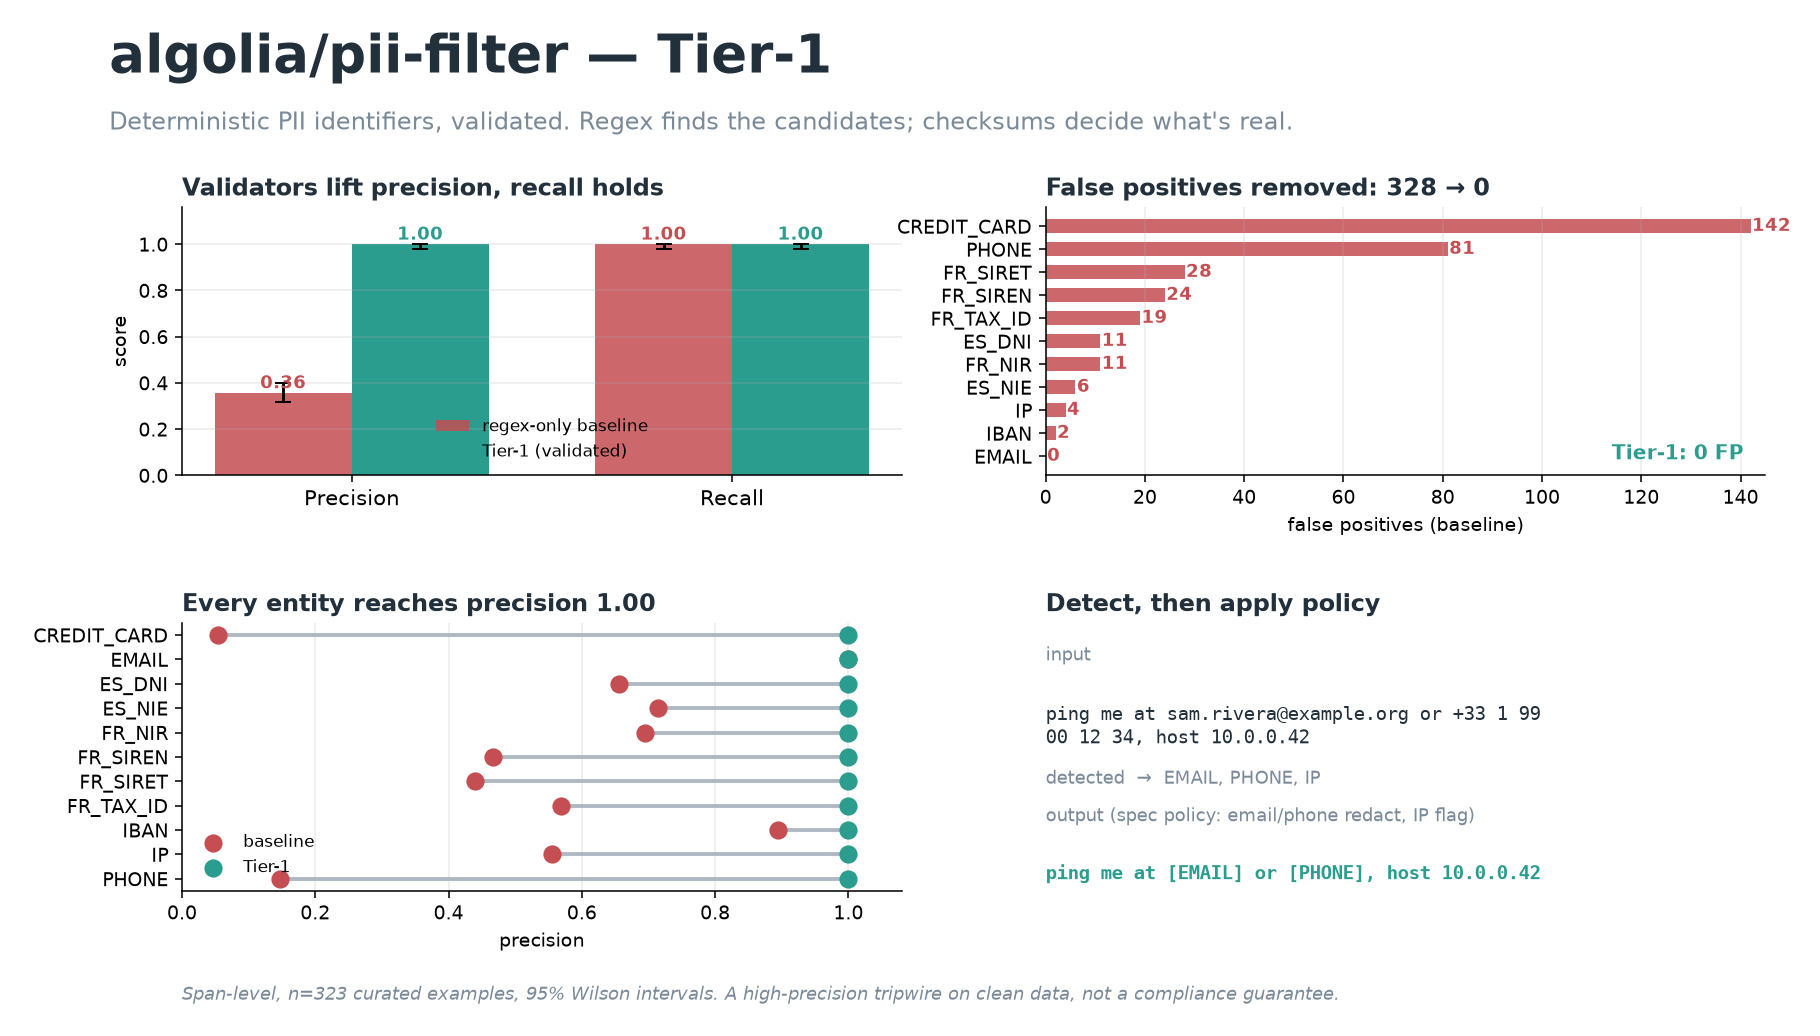
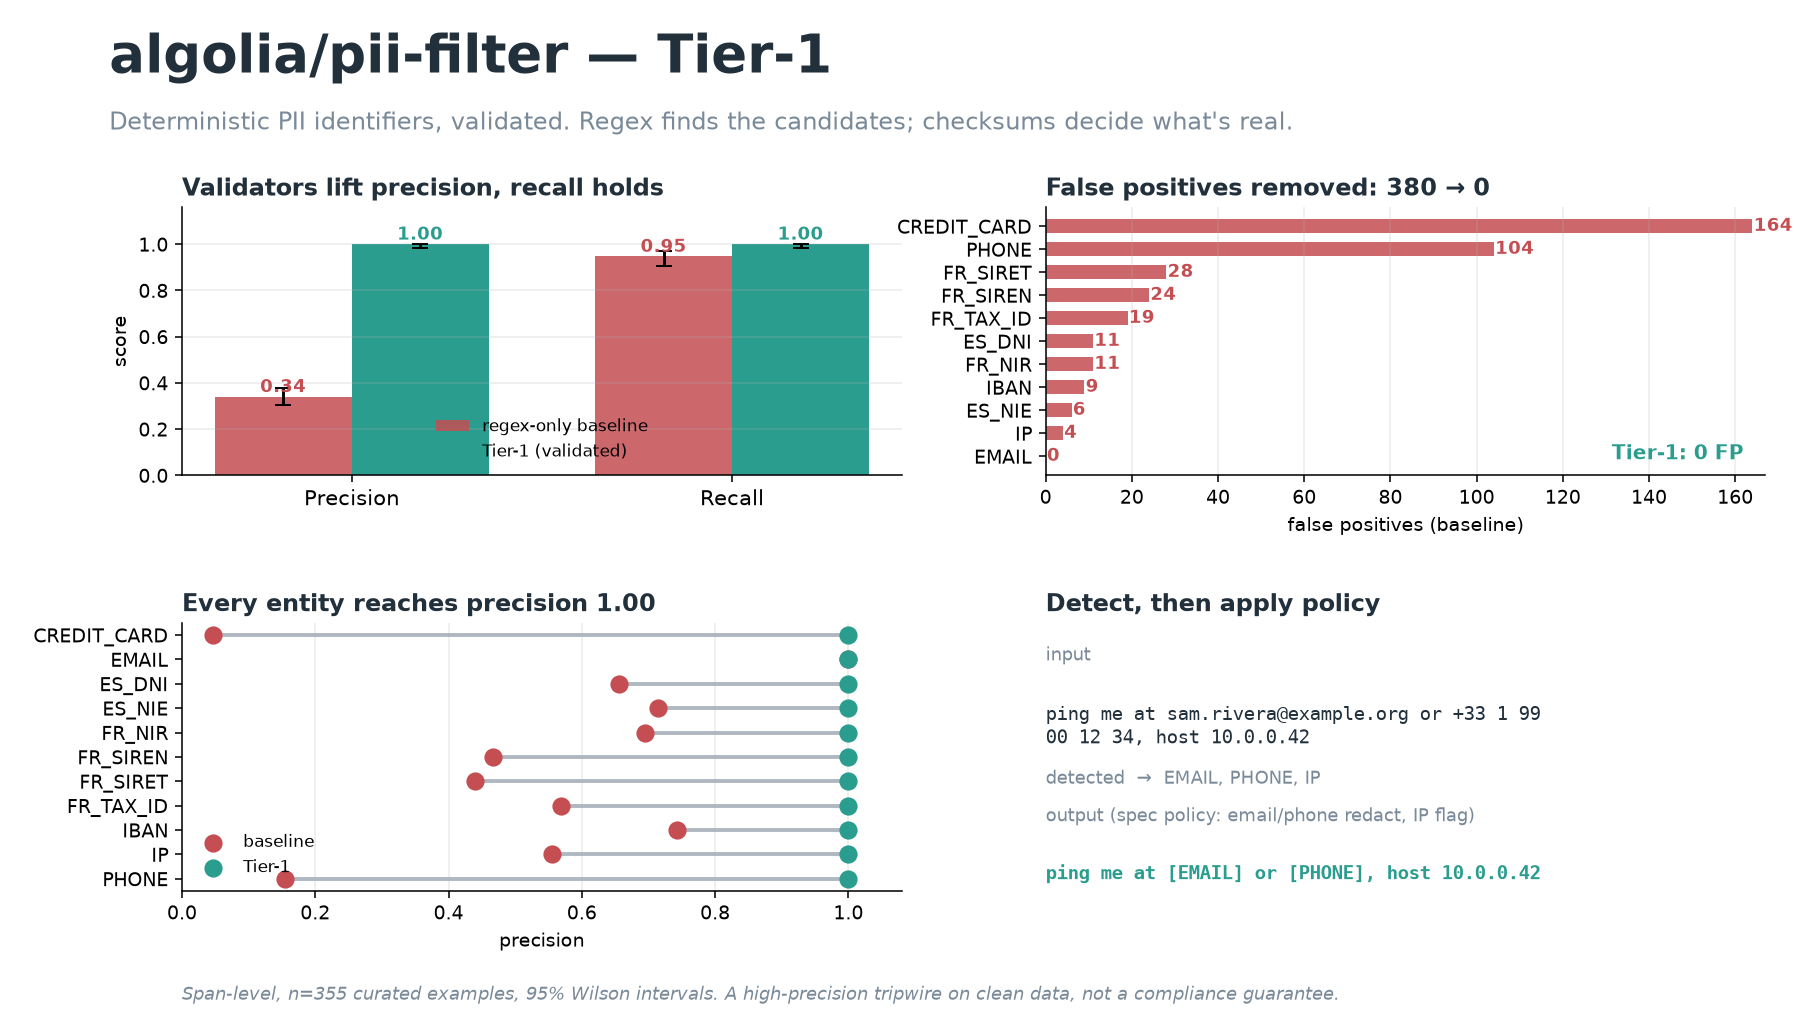
docs: IBAN groups, card windows, E.164 phones and the new corpus numbers
Corpus now 355 examples and 207 labeled spans. The regex-only baseline
drops to precision 0.34 and recall 0.95: it cannot see a card inside a
longer digit run or an IBAN cut back to its country length. Tier-1 stays
at 1.00/1.00 with 0 false positives. Records the compact national phone
form left out and the remaining Go PHONE parity gap.

diff --git a/README.md b/README.md
@@ -1,6 +1,6 @@
 # algolia/pii-filter
 
-![Tier-1 at a glance: validators lift precision 0.36 → 1.00 at unchanged recall on 323 corpus examples, 328 false positives removed to 0, every entity at precision 1.00, plus a live redaction demo.](docs/hero.png)
+![Tier-1 at a glance: validators lift precision 0.34 → 1.00 and recall 0.95 → 1.00 on 355 corpus examples, 380 false positives removed to 0, every entity at precision 1.00, plus a live redaction demo.](docs/hero.png)
 
 <sub>Regenerate: `PYTHONPATH=src python -m pii.bench.cli hero`</sub>
 
@@ -59,9 +59,17 @@ Read this before depending on anything below.
   uppercase; the NIR month and department are not checked against the INSEE
   tables (so the corpus uses unissued months 14-19); overseas 3+2 place grouping
   has no special handling.
-- **Same corpus is not full parity.** Python and Go agree on every corpus row,
-  but they have known, pre-existing disagreements on CREDIT_CARD, PHONE and IP
-  edge cases outside it (about 124 per 20,000 fuzz strings, measured before 0.2.0).
+- **Compact national phone numbers are not detected.** `0` plus 9-10 digits with
+  no separator and no `+` (`0199001234`) is left alone: about 9% of random 10- and
+  11-digit ids (order numbers, tracking codes) share that shape. Compact E.164
+  (`+33199001234`) and grouped national numbers are detected.
+- **Same corpus is not full parity.** Python and Go agree on every corpus row.
+  Outside it, cards and IBANs agree on all of three 20,000-string fuzz runs;
+  PHONE still disagrees on about 20 per 20,000 random strings, 837 per 20,000
+  IBAN- and card-shaped ones and 1,463 per 20,000 built around `+` signs (all
+  pre-existing, none added by the E.164 form). Go does not retry a phone match refused for
+  touching a digit, and Python's `\d` in the grouped phone pattern is Unicode
+  where Go's is ASCII.
 - **Tier-2 (PERSON, ADDRESS) is an interface with a no-op backend today.** NER
   is a best-effort guess wherever it lands; honest out-of-domain F1 for open
   models clusters near 0.5 ([`docs/research-sota-2026-07.md`](docs/research-sota-2026-07.md)).
@@ -69,8 +77,9 @@ Read this before depending on anything below.
   and documented incomplete, never an inference model (the CJEU treats inferred
   Art. 9 data as Art. 9 data, so inference creates the liability it detects).
 - **Corpus numbers are corpus numbers.** Precision 1.00 is a point estimate on
-  323 curated examples, 182 labeled spans (overall CI floor 0.98, per new
-  national-ID entity 0.80-0.87 on 15-25 spans each); field accuracy is
+  355 curated examples, 207 labeled spans (overall CI floor 0.98, per
+  national-ID entity 0.80-0.87 on 15-25 spans each, CREDIT_CARD 0.80 on 15,
+  PHONE 0.83 on 19, IBAN 0.89 on 30); field accuracy is
   unmeasured. The national-ID rows are synthetic, built
   by a seeded generator (`corpus/synth_ids.py`), not sampled from real text,
   and drawn from ranges meant to be unissued (its header says how strong each
@@ -205,9 +214,9 @@ corpus/*.jsonl      (golden, span-labeled  <- the cross-language contract)
   | Entity | What | Validation | Default policy |
   |---|---|---|---|
   | EMAIL | email address | regex | redact |
-  | PHONE | phone number | digit count, not an IP or date | redact |
-  | CREDIT_CARD | payment card | Luhn + IIN + length | reject |
-  | IBAN | bank account | per-country length + mod-97 | reject |
+  | PHONE | phone number, grouped or compact E.164 (`+` and 9-15 digits) | digit count, not an IP or date | redact |
+  | CREDIT_CARD | payment card, also inside a longer digit run (card then expiry or CVV) | Luhn + IIN + length, card-shaped groups | reject |
+  | IBAN | bank account, compact or in 4-character groups (space, NBSP, thin space, dot, dash), any case | per-country length + mod-97 | reject |
   | IP | IPv4 address | octet range | flag |
   | FR_NIR | French social security number (15 chars) | mod-97 key, Corsica 2A/2B; ~1% of random 15-digit runs starting 1/2/7/8 pass | redact |
   | FR_TAX_ID | French numero fiscal / SPI (13 digits) | first digit 0-3, mod 511; ~0.09% of ms timestamps and EAN-13 pass | redact |
@@ -226,19 +235,21 @@ corpus/*.jsonl      (golden, span-labeled  <- the cross-language contract)
 
 ## The validators earn their keep (calibrated evidence)
 
-Span-level scores over the 323-example corpus (182 labeled spans), regex-only
+Span-level scores over the 355-example corpus (207 labeled spans), regex-only
 baseline vs validated Tier-1 (95% Wilson intervals, because n is small and
 honesty is the point):
 
 | Detector | Precision | Recall | False positives |
 |---|---|---|---|
-| regex-only baseline | 0.36 [0.32-0.40] | 1.00 [0.98-1.00] | 328 |
+| regex-only baseline | 0.34 [0.30-0.38] | 0.95 [0.91-0.97] | 380 |
 | **Tier-1 (validated)** | **1.00 [0.98-1.00]** | **1.00 [0.98-1.00]** | **0** |
 
 The baseline over-matches (Luhn/IIN-invalid cards, out-of-range IPs, invalid
 IBANs, date-like phone numbers, checksum-invalid and keyword-less national
 IDs); the validators and the keyword gate remove every false positive without
-costing recall. The baseline's false-positive count reflects how many near
+costing recall. The baseline also misses spans a bare regex match cannot give: a
+card followed by its expiry (one 20-digit run whose valid card is a sub-window)
+and a grouped IBAN cut back to its country length. The baseline's false-positive count reflects how many near
 misses the corpus holds (most of the 0.2.0 rows are deliberate near misses), so
 compare it across detectors, not across corpus versions. Charts: [`docs/bench-tier1.png`](docs/bench-tier1.png)
 vs [`docs/bench-baseline.png`](docs/bench-baseline.png). Reproduce:

diff --git a/docs/integration.md b/docs/integration.md
@@ -85,9 +85,9 @@ install.
 | Entity | Tier | Detection | Default policy |
 |---|---|---|---|
 | EMAIL | 1 | regex | redact |
-| PHONE | 1 | regex + digit-count, not-an-IP | redact |
-| CREDIT_CARD | 1 | regex + Luhn + IIN + length | reject |
-| IBAN | 1 | regex + mod-97 | reject |
+| PHONE | 1 | regex + digit-count, not-an-IP; grouped or compact E.164 | redact |
+| CREDIT_CARD | 1 | regex + Luhn + IIN + length, card windows inside longer runs | reject |
+| IBAN | 1 | regex + mod-97, compact or 4-char groups, any case | reject |
 | IP | 1 | regex + octet range | flag |
 | FR_NIR | 1 | regex + mod-97 key (Corsica 2A/2B) | redact |
 | FR_TAX_ID | 1 | regex + first digit 0-3, mod 511 | redact |
@@ -154,16 +154,18 @@ Tier-1 findings score `1.0`. Tier-2 findings carry the model's confidence.
 - **Not a compliance guarantee.** Regex + checksum is a high-precision tripwire
   for identifiers, not a proof a dataset is PII-free. The strongest control
   remains never ingesting personal data.
-- **Calibrated on a small, clean corpus** (n=323 examples, 182 spans). Span-level
+- **Calibrated on a small, clean corpus** (n=355 examples, 207 spans). Span-level
   precision/recall is `1.00` point estimate, `0.98` overall Wilson floor and
   `0.80`-`0.87` per national-ID entity (15-25 spans each). That is a tripwire demonstrated on
   curated data, not a field-accuracy claim. See the bench in [`../README.md`](../README.md).
 - **A valid checksum proves shape, not issuance.** Nothing here looks a number up,
   and the national-ID checks are weak (a random number of the right shape passes
   the NIR key 1 time in 100, the DNI letter 1 in 23).
-- **Python and Go agree on the corpus, not everywhere.** Known pre-existing
-  disagreements on CREDIT_CARD, PHONE and IP edge cases remain (about 124 per
-  20,000 fuzz strings, measured before 0.2.0).
+- **Python and Go agree on the corpus, not everywhere.** Cards and IBANs agree
+  on the fuzz runs; known pre-existing PHONE disagreements remain (about 20 per
+  20,000 random strings, more on strings built from digit groups and `+` signs).
+- **Compact national phone numbers are not detected** (`0` plus 9-10 digits, no
+  separator): about 9% of random 10- and 11-digit ids share that shape.
 - **GDPR Article 9** (special categories) is intentionally out of scope — never an
   inference model. See [`../SPEC.md`](../SPEC.md).
 

diff --git a/CHANGELOG.md b/CHANGELOG.md
@@ -2,6 +2,31 @@
 
 ## Unreleased
 
+### Fixed
+- EMAIL no longer backtracks quadratically. With no left boundary, every start
+  inside a long run with no `@` rescanned the run: about 5 s on 100k letters in
+  Python. The pattern now refuses to start inside a local-part run, which leaves
+  the match set unchanged. A timing test runs 16 adversarial 100k inputs against
+  every spec pattern and both full detectors.
+- Go: the national-ID scan no longer retries byte by byte inside a long digit
+  run after a refused boundary (100k digits: about 430 ms, super-linear, now
+  about 30 ms).
+- IBAN finds 4-character groups separated by a space, NBSP, thin space, dot or
+  dash, in any case. Mod-97 and the per-country length still apply; one
+  separator kind per IBAN, no mixed case, and a grouped or lowercase IBAN needs
+  a known country. A grouped match running past the country length is cut back
+  to it, and scanning resumes at the cut.
+- CREDIT_CARD finds a card inside a longer digit run (a card followed by its
+  expiry or CVV, or after a short digit prefix): it validates the longest
+  13-19-digit window starting at each digit group, and a window shorter than the
+  run must be card-shaped (4-digit groups, or Amex 4-6-5/4-6-4), so long numeric
+  ids stay clean.
+
+### Added
+- PHONE detects compact E.164 (`+` and 9-15 digits, optionally one separator
+  after the country code). Compact national numbers (`0` plus 9-10 digits) stay
+  undetected: about 9% of random 10- and 11-digit ids share that shape.
+
 ### Changed
 - Test data is synthetic only. Phones come from regulator fiction ranges
   (ARCEP, Bundesnetzagentur, Ofcom, NANPA), emails from RFC 2606/6761 domains,

diff --git a/SPEC.md b/SPEC.md
@@ -76,6 +76,13 @@ as 0/1/2). SIREN and SIRET are Tier 1.5 (below). When two detectors claim the
 same span, the higher score wins, then the earlier entity in `spec/entities.yaml`;
 the national identifiers are listed before PHONE and CREDIT_CARD for that reason.
 
+For CREDIT_CARD and IBAN a regex match is a candidate run, not the span. A card
+is the longest Luhn/IIN-valid 13-19-digit window starting at a digit group (a
+window shorter than the run must be card-shaped). A grouped IBAN that fails as a
+whole is cut back to its country's length. Scanning resumes after the reported
+span, and both languages apply the same rule (`card_spans`/`iban_spans` in
+`src/pii/validators.py`, `cardWindows`/`ibanSpan` in `detectors.go`).
+
 SSNs are deliberately **not** in this set. A US SSN has no checksum (the SSA
 randomized assignment in 2011), so a bare regex is high-false-positive and would
 undermine the calibrated-precision story this tier rests on. It belongs to a
